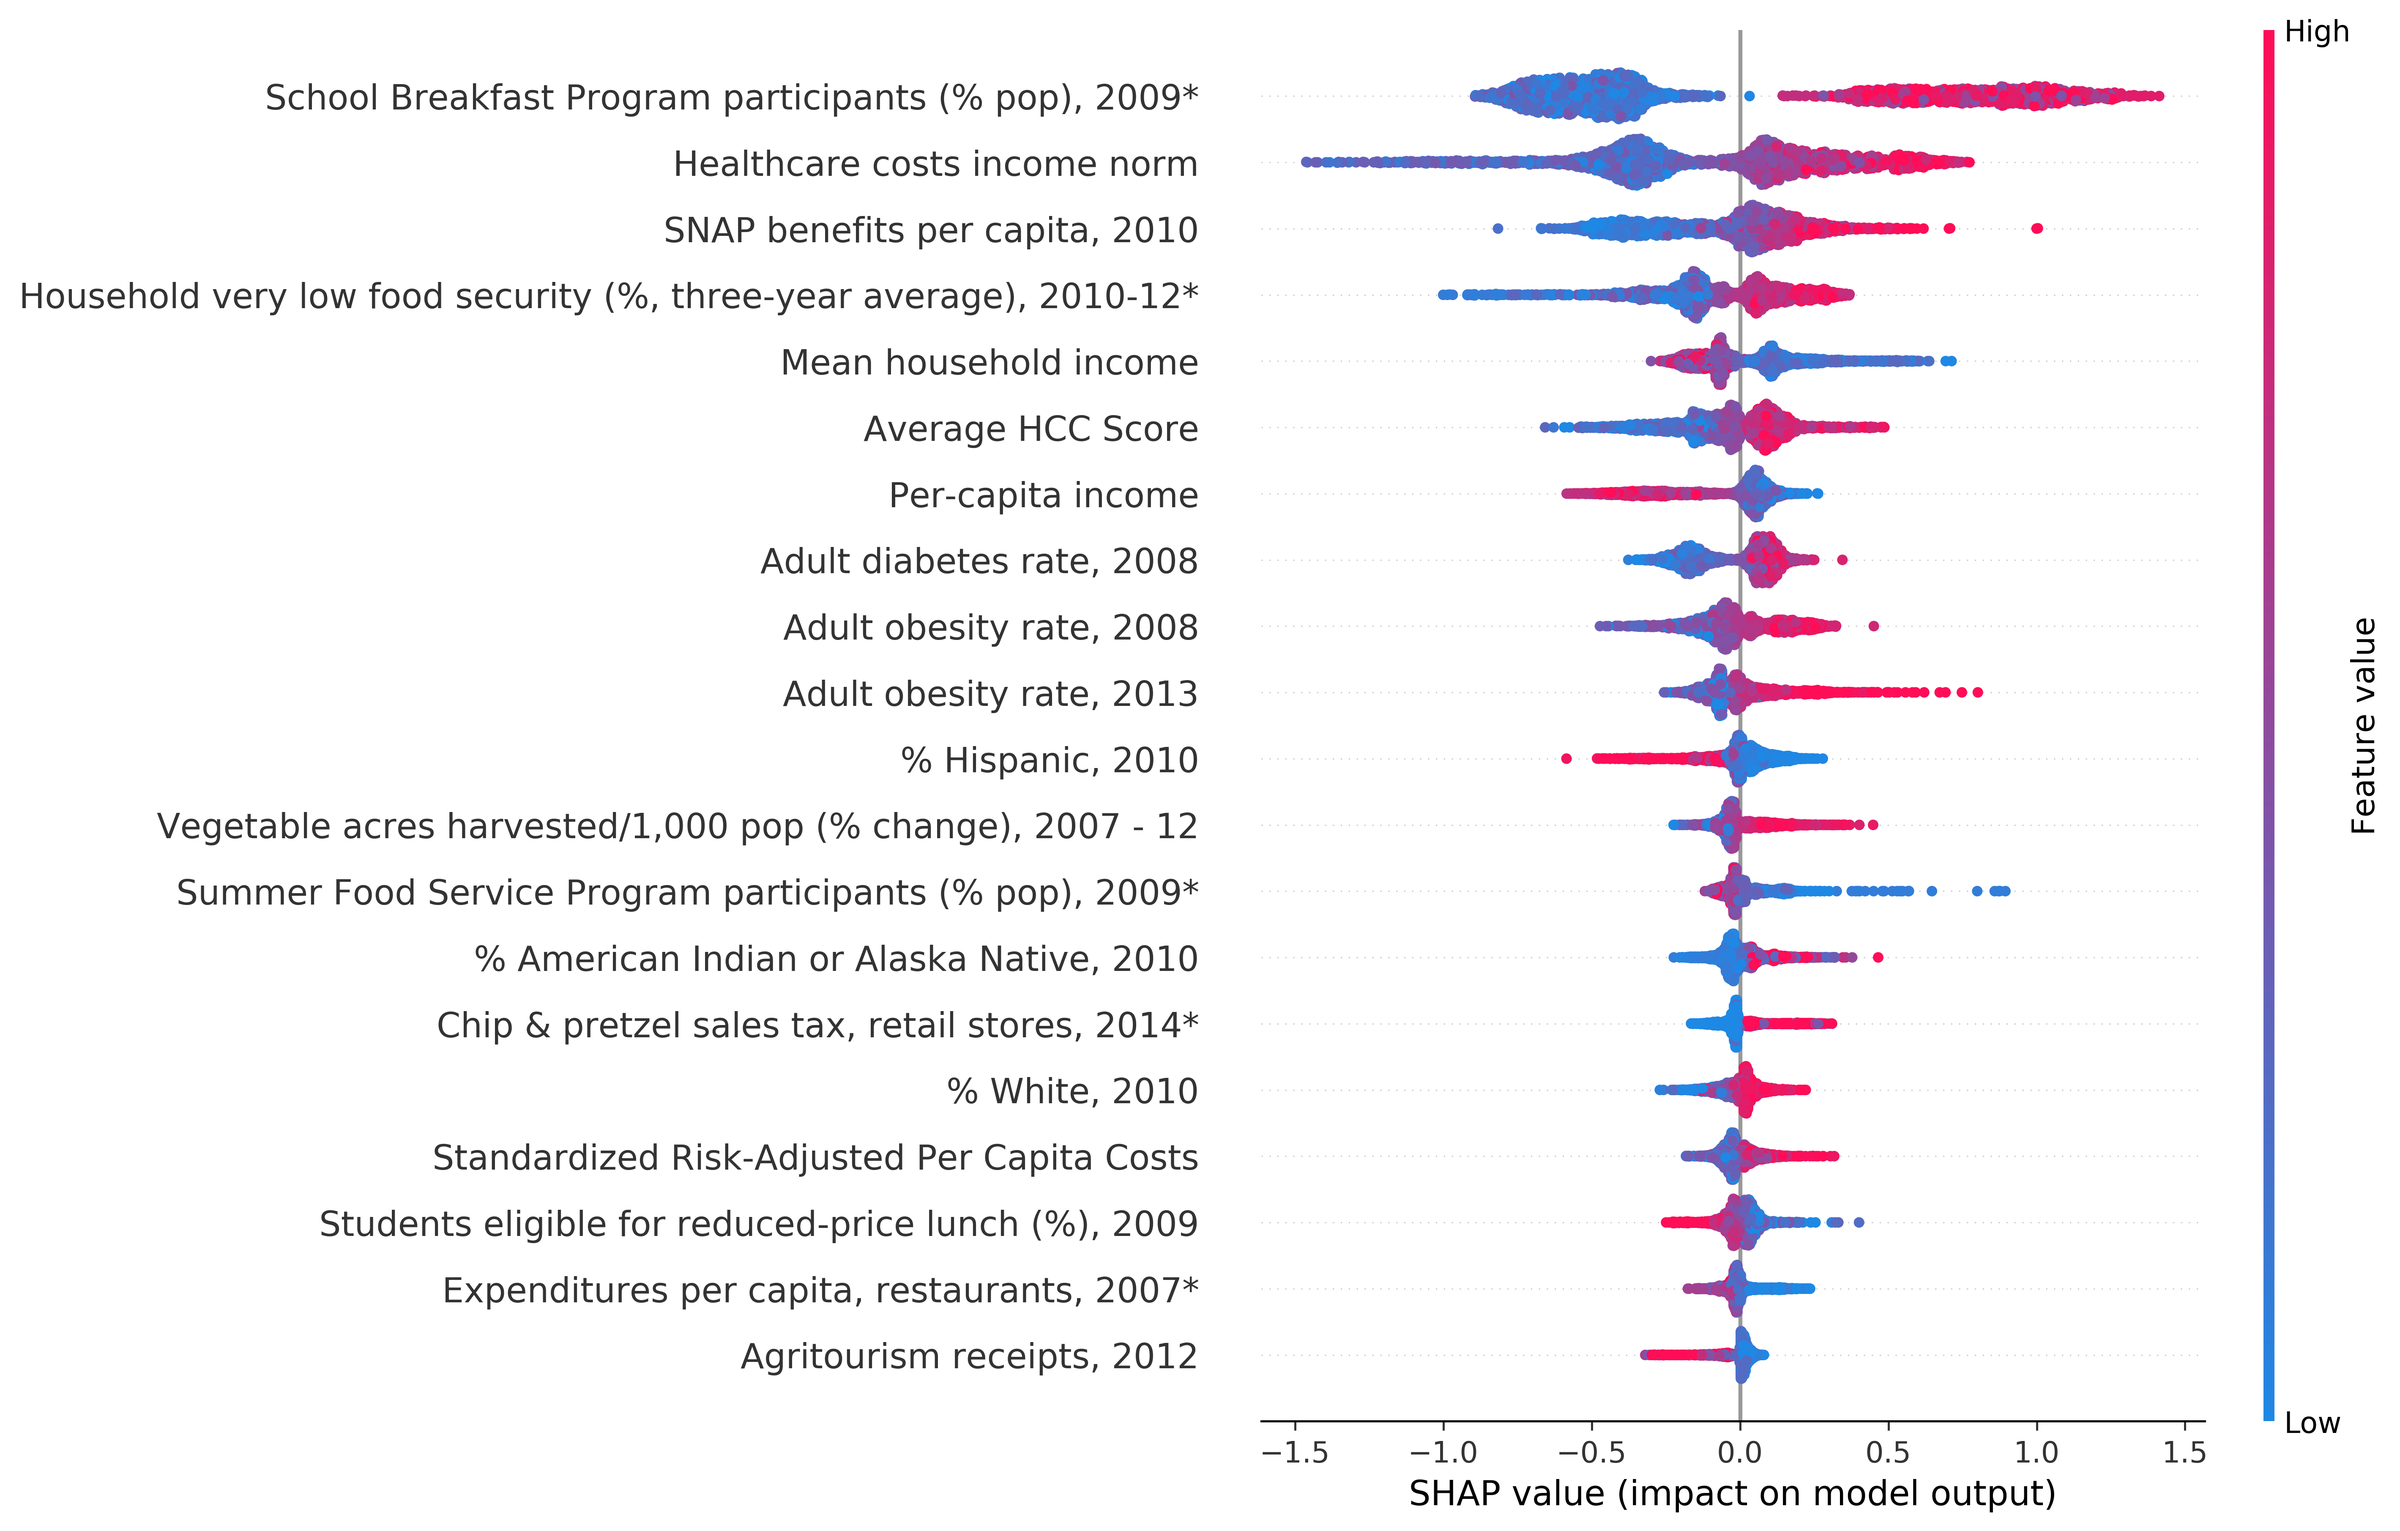
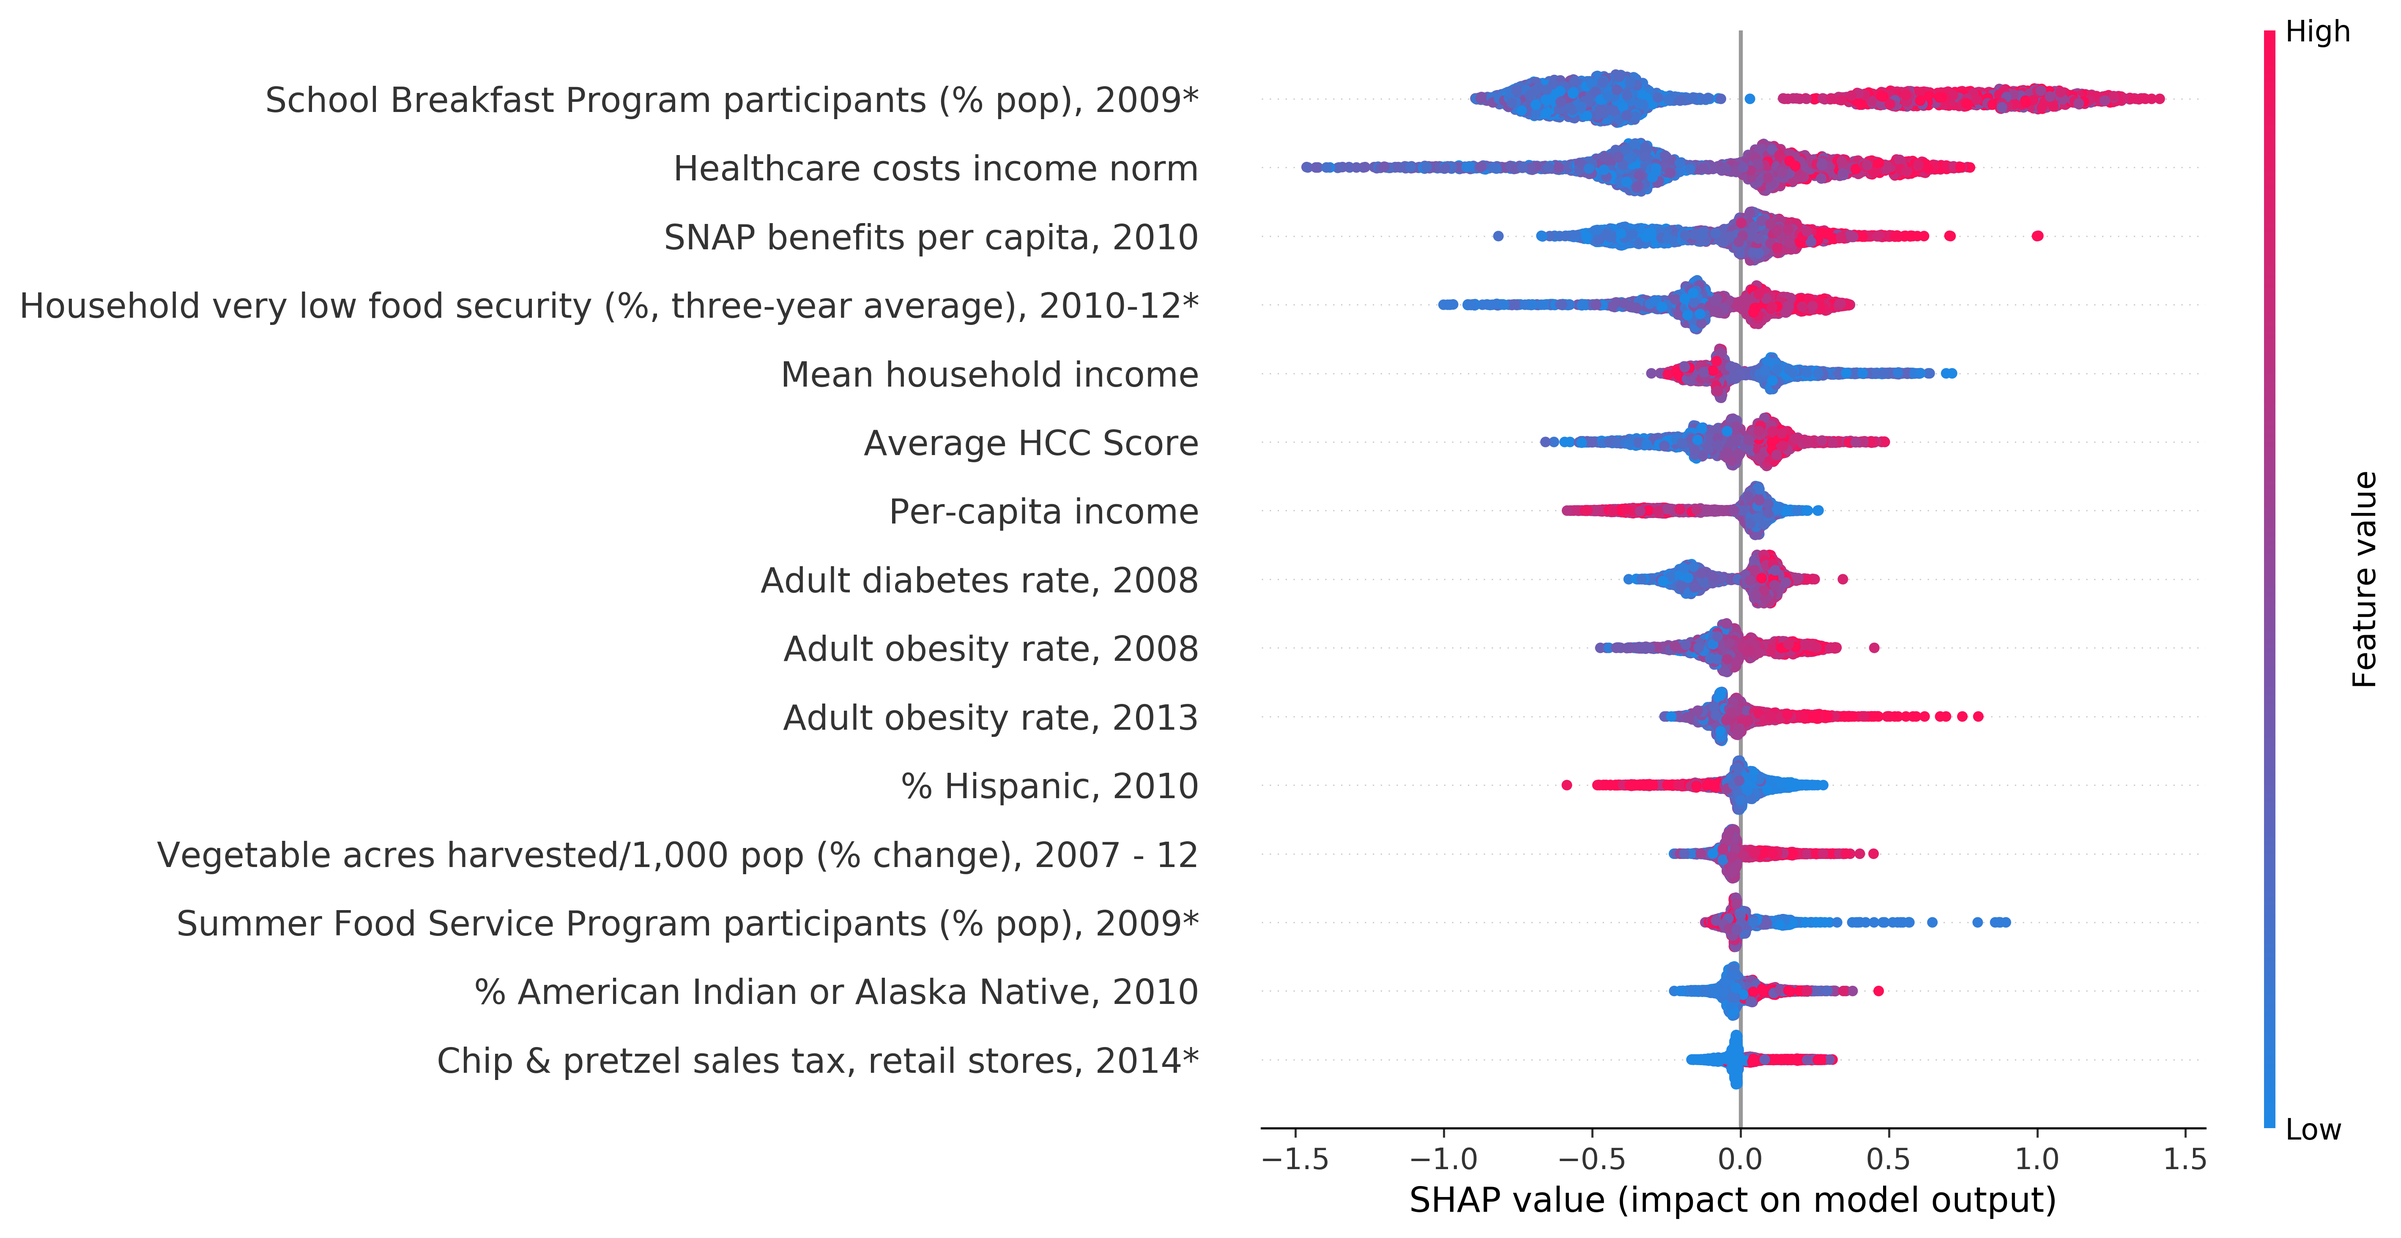
Have XGBoost plot include fewer features

diff --git a/heartbreaker/plotting.py b/heartbreaker/plotting.py
@@ -54,13 +54,14 @@ def make_histograms():
     print(np.nanmedian(data['VEG_FARMS12']))
     print(np.nanmax(data['VEG_FARMS12']))
 
-def plot_shap_tree_summary(model, baseline_data, eval_data, output_fname=""):
+def plot_shap_tree_summary(model, baseline_data, eval_data, num_features=15, output_fname=""):
     """Create a shap summary plot"""
     explainer = shap.TreeExplainer(model, baseline_data)
     shap_values = explainer.shap_values(eval_data)
     shap.summary_plot(
         shap_values,
         eval_data,
+        max_display=num_features,
         class_names=["Low risk", "High risk"],
         show=False if output_fname else False  # Allows for saving below
     )

diff --git a/heartbreaker/model_boosted_tree.py b/heartbreaker/model_boosted_tree.py
@@ -109,7 +109,7 @@ def feature_importance(percentile=25):
     model = xgboost.XGBClassifier(max_depth=8, learning_rate=1e-2, n_estimators=350, reg_alpha=1, random_state=8292)  # 6 and 250 for depth and n_estimators were found via parameter sweep
     model.fit(data, rates_high_low)
 
-    plotting.plot_shap_tree_summary(model, data, data, os.path.join(plotting.PLOTS_DIR, "shap_xgboost_importance.png"))
+    plotting.plot_shap_tree_summary(model, data, data, output_fname=os.path.join(plotting.PLOTS_DIR, "shap_xgboost_importance.png"))
 
 if __name__ == "__main__":
     logging.basicConfig(level=logging.INFO)
